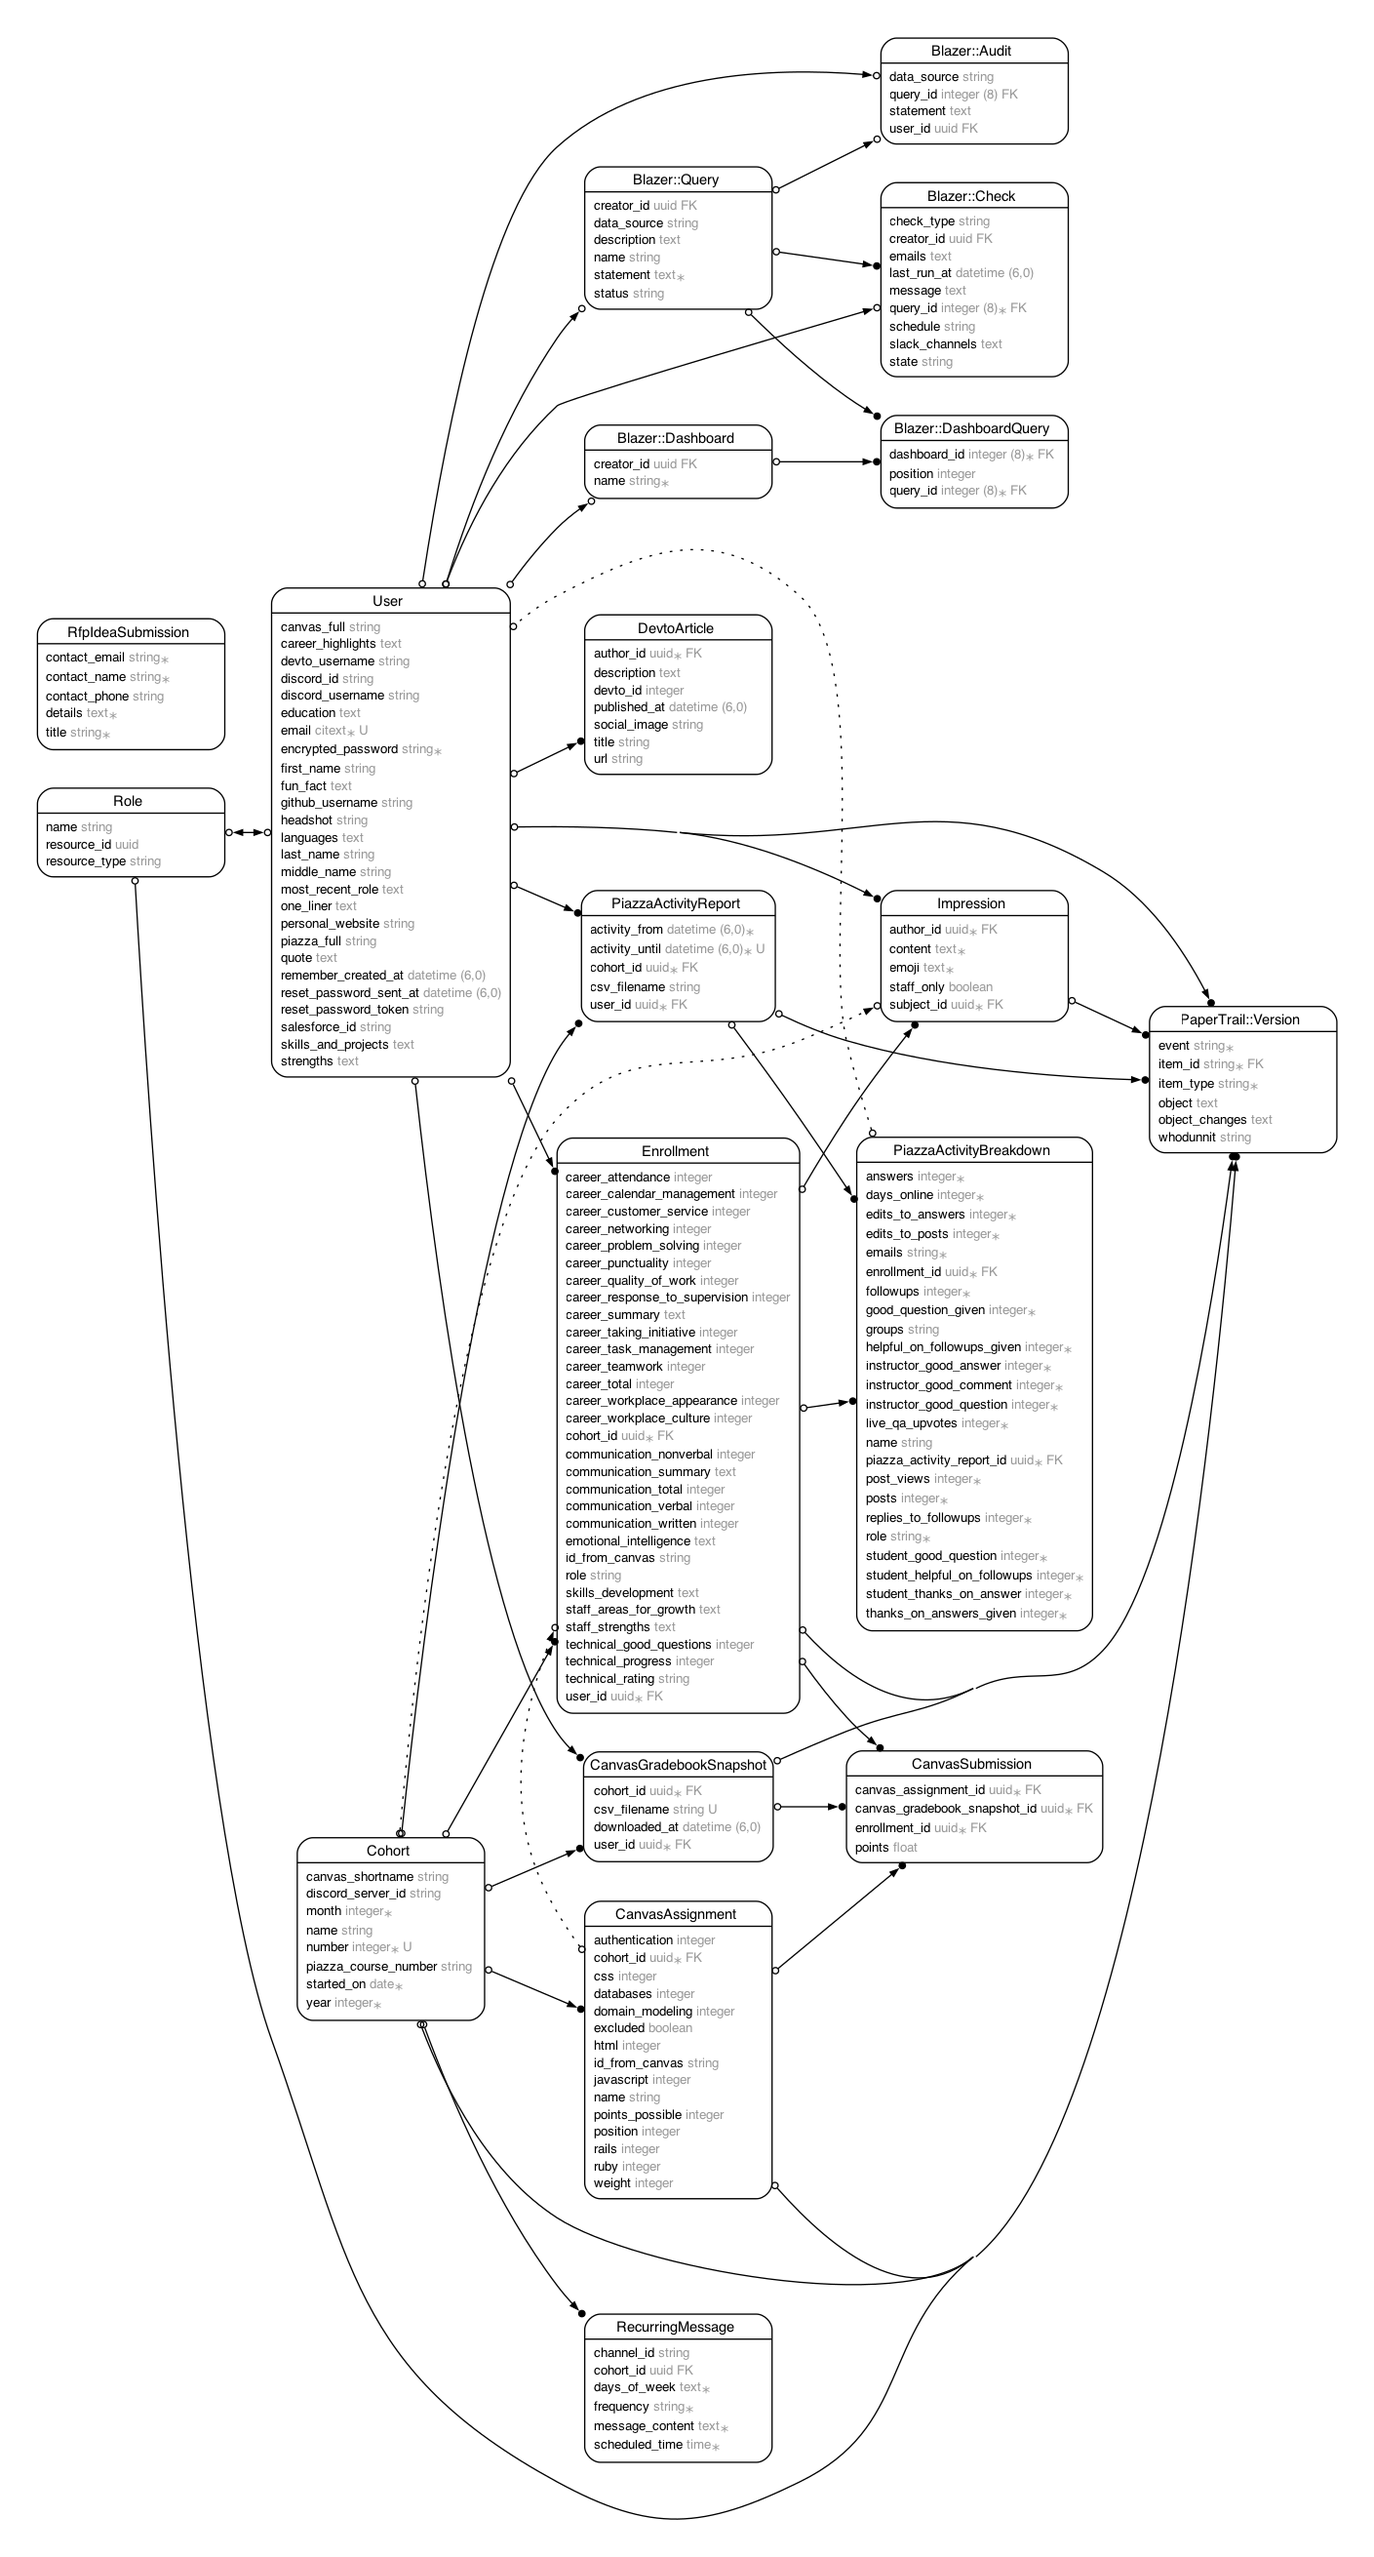
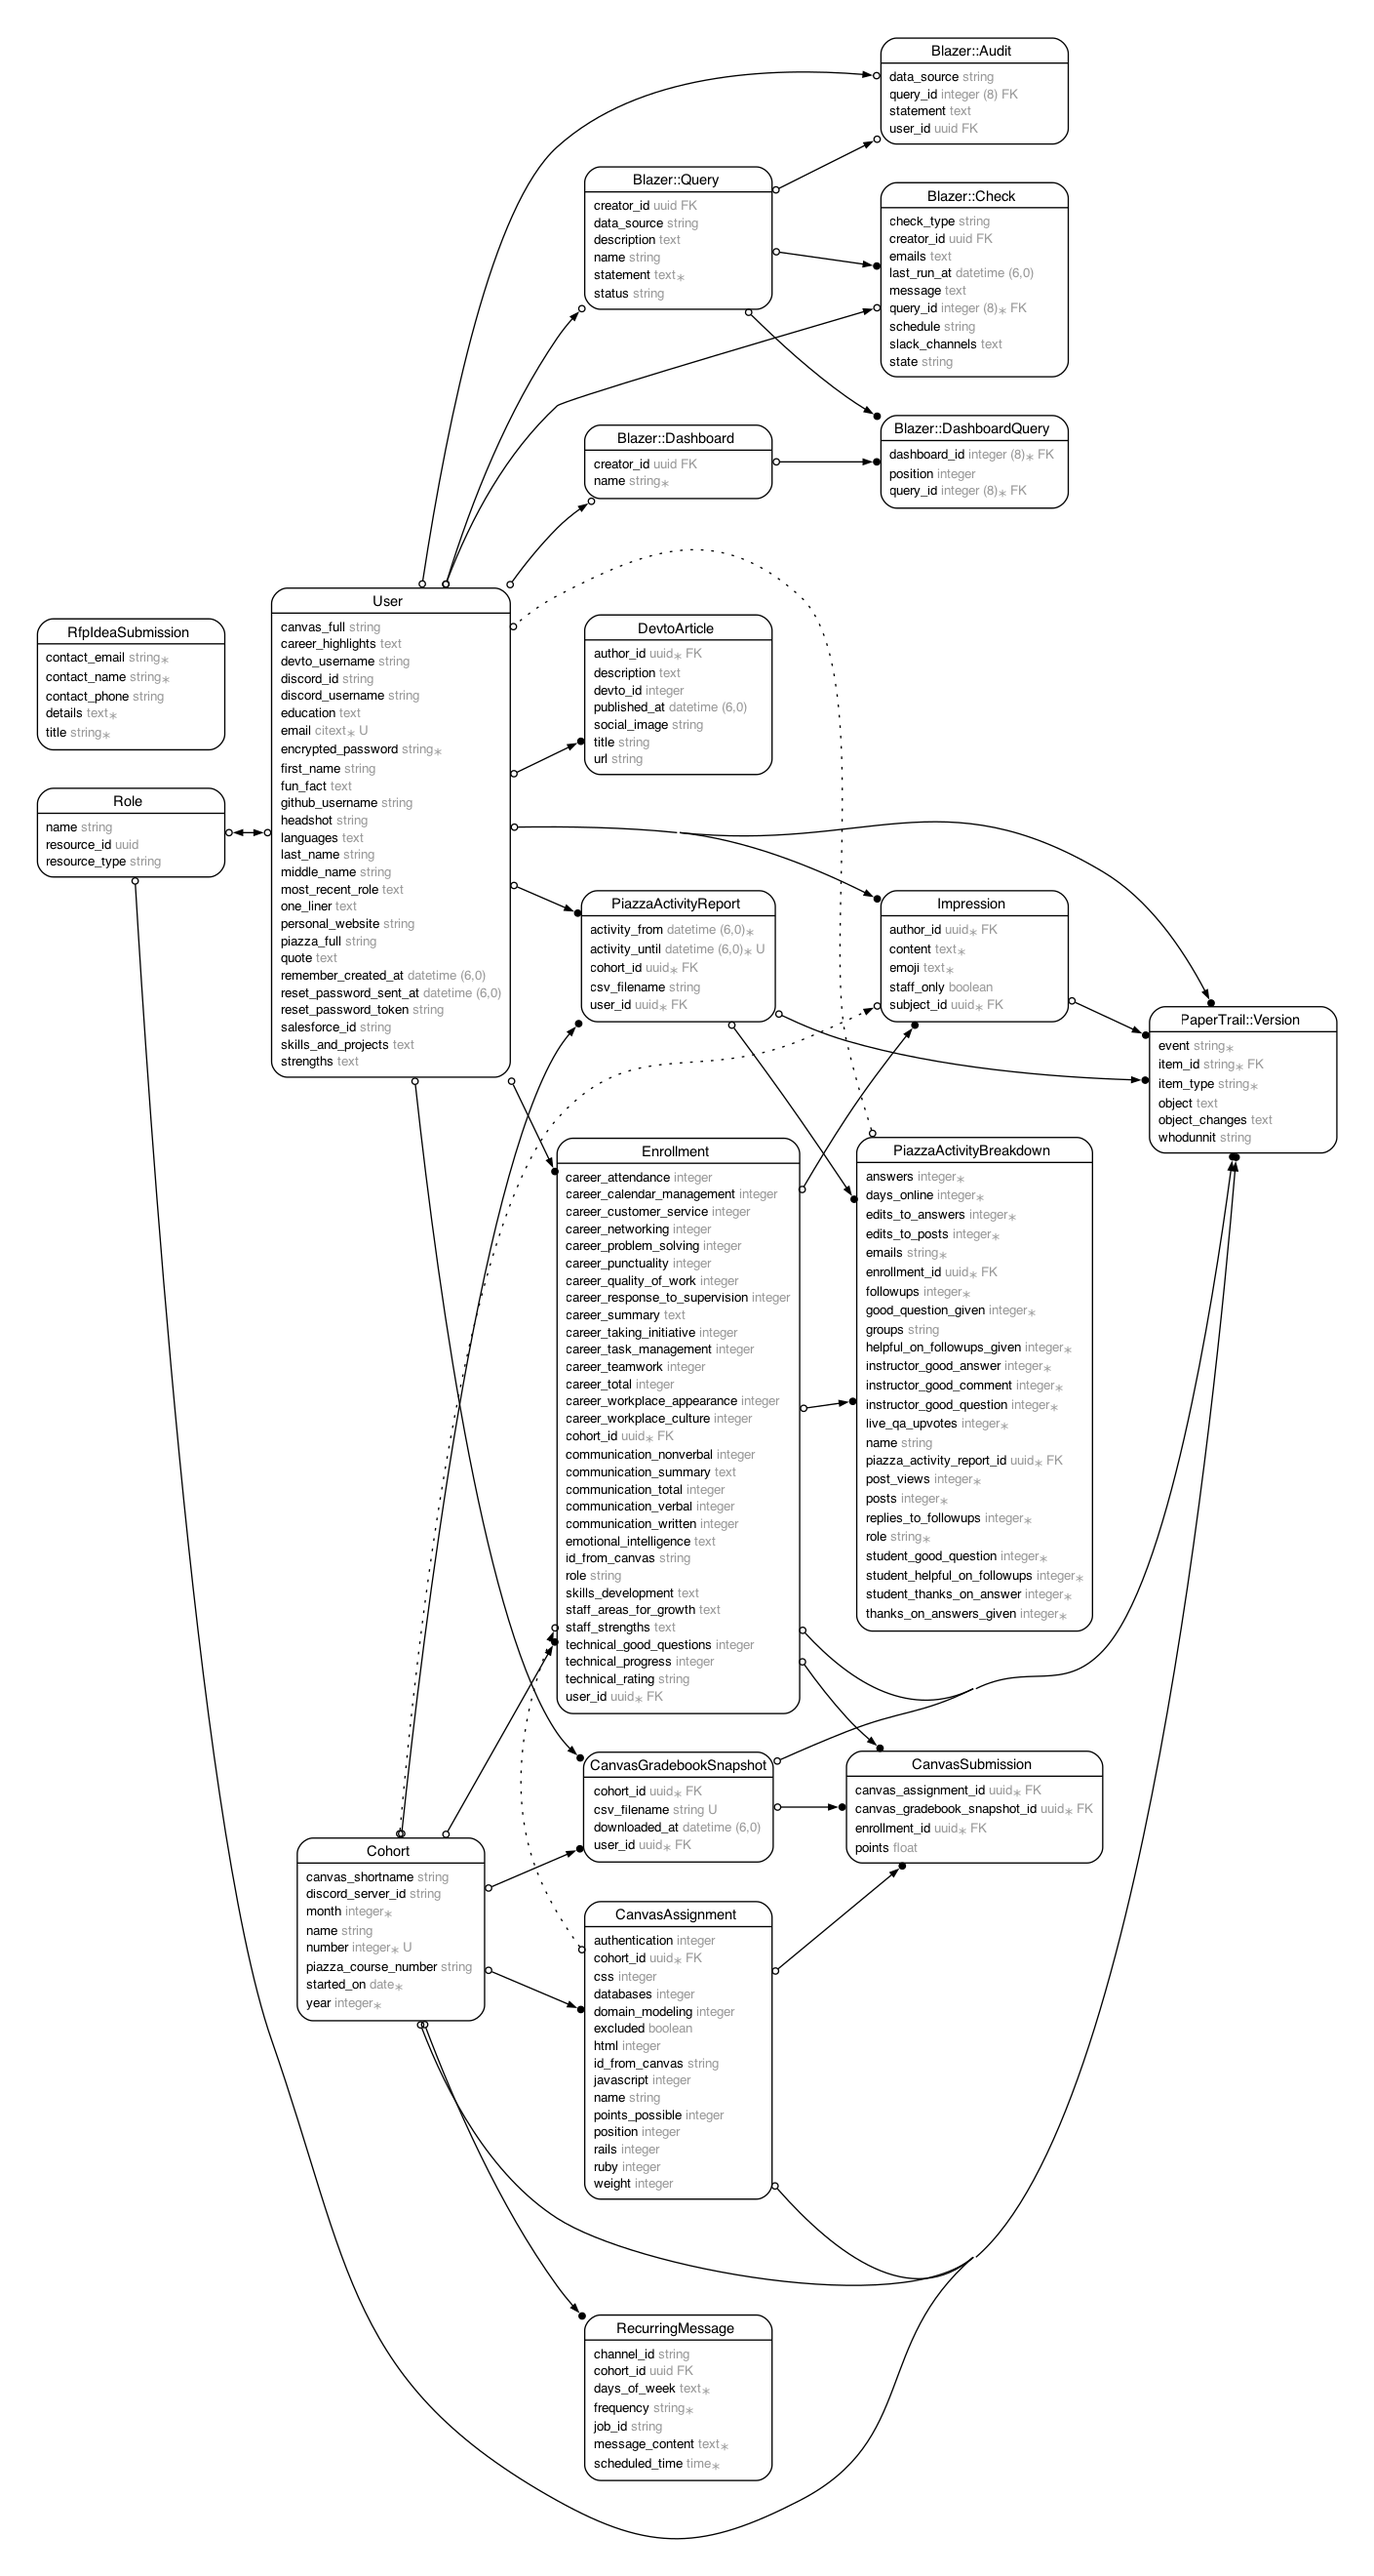
Fix the update issue
There were multiple jobs being enqueued

diff --git a/app/controllers/recurring_messages_controller.rb b/app/controllers/recurring_messages_controller.rb
@@ -29,6 +29,7 @@ class RecurringMessagesController < ApplicationController
 
   def update
     if @recurring_message.update(recurring_message_params)
+      cancel_previous_job(@recurring_message)
       schedule_discord_message(@recurring_message)
       flash[:notice] = "Recurring message updated successfully."
       redirect_to cohort_discord_channel_path(@cohort, @channel[:id])
@@ -69,9 +70,21 @@ class RecurringMessagesController < ApplicationController
   def schedule_discord_message(recurring_message)
     next_occurrence = calculate_next_occurrence(recurring_message)
     if next_occurrence
-      DiscordMessageJob
-        .set(wait_until: next_occurrence)
-        .perform_later(recurring_message.id)
+      job = DiscordMessageJob
+              .set(wait_until: next_occurrence)
+              .perform_later(recurring_message.id)
+      if job.respond_to?(:provider_job_id)
+        recurring_message.update_column(:job_id, job.provider_job_id)
+      end
+    end
+  end
+
+  def cancel_previous_job(recurring_message)
+    return unless recurring_message.job_id.present?
+
+    scheduled_set = Sidekiq::ScheduledSet.new
+    if (job = scheduled_set.find_job(recurring_message.job_id))
+      job.delete
     end
   end
 

diff --git a/db/schema.rb b/db/schema.rb
@@ -10,7 +10,7 @@
 #
 # It's strongly recommended that you check this file into your version control system.
 
-ActiveRecord::Schema[7.0].define(version: 2025_02_19_033921) do
+ActiveRecord::Schema[7.0].define(version: 2025_03_10_192353) do
   # These are extensions that must be enabled in order to support this database
   enable_extension "citext"
   enable_extension "pgcrypto"
@@ -246,6 +246,7 @@ ActiveRecord::Schema[7.0].define(version: 2025_02_19_033921) do
     t.datetime "created_at", null: false
     t.datetime "updated_at", null: false
     t.string "frequency", default: "weekly", null: false
+    t.string "job_id"
     t.index ["cohort_id"], name: "index_recurring_messages_on_cohort_id"
   end
 

diff --git a/app/models/recurring_message.rb b/app/models/recurring_message.rb
@@ -11,6 +11,7 @@
 #  updated_at      :datetime         not null
 #  channel_id      :string
 #  cohort_id       :uuid
+#  job_id          :string
 #
 # Indexes
 #

diff --git a/db/migrate/20250310192353_add_job_id_to_recurring_message.rb b/db/migrate/20250310192353_add_job_id_to_recurring_message.rb
@@ -1,0 +1,5 @@
+class AddJobIdToRecurringMessage < ActiveRecord::Migration[7.0]
+  def change
+    add_column :recurring_messages, :job_id, :string
+  end
+end
